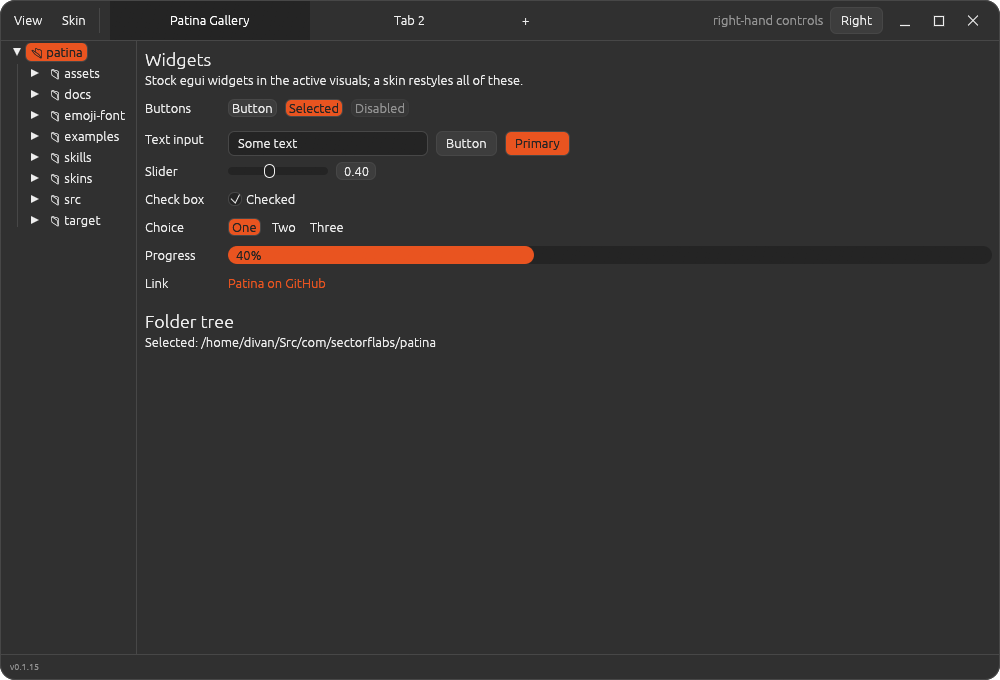
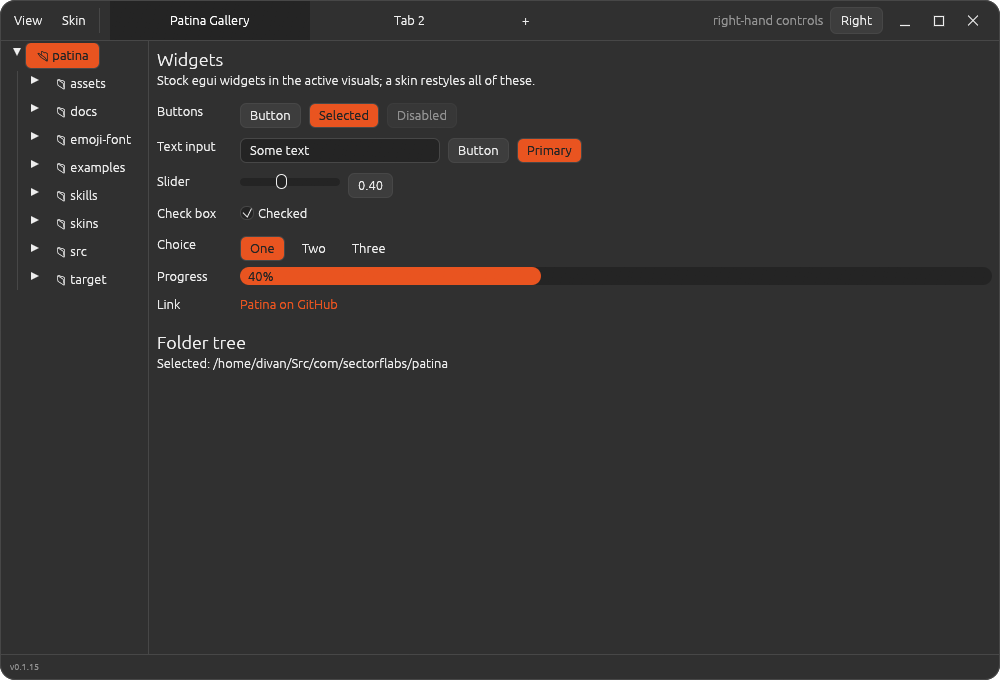
Every button is a title bar button's size by default: Skin::apply sets the padding (ADR-0035)
spacing.button_padding is [controls] button_padding, else 10 by 5, so plain
buttons, drop-downs, drag values and selectable labels are about 24 px high,
as dialog buttons and inputs are. [4, 1] is egui's old size. Screenshots
regenerated.

diff --git a/src/skin.rs b/src/skin.rs
@@ -120,6 +120,10 @@ pub struct Controls {
     pub input_padding: Option<[f32; 2]>,
     /// Least height of a text input in px; 24, a button's, when unset.
     pub input_height: Option<f32>,
+    /// Padding inside buttons and the controls drawn like them (drop-downs,
+    /// drag values, selectable labels), `[across, down]` in px; 10 by 5, the title
+    /// bar's, when unset. `[4, 1]` is egui's.
+    pub button_padding: Option<[f32; 2]>,
 }
 
 /// The app's own window frame: its title bar, edge and corners.
@@ -237,6 +241,7 @@ impl Skin {
     /// swap it out.
     pub fn apply(&self, ctx: &egui::Context) {
         crate::dialog::set_input_size(ctx, self.input_size());
+        let spacing = self.spacing();
         let Some(base) = self.base else {
             ctx.set_theme(ThemePreference::System);
             for slot in [EguiTheme::Dark, EguiTheme::Light] {
@@ -244,6 +249,7 @@ impl Skin {
                     slot,
                     egui::Style {
                         visuals: slot.default_visuals(),
+                        spacing: spacing.clone(),
                         ..Default::default()
                     },
                 );
@@ -261,9 +267,26 @@ impl Skin {
                 slot,
                 egui::Style {
                     visuals: visuals.clone(),
+                    spacing: spacing.clone(),
                     ..Default::default()
                 },
             );
+        }
+    }
+
+    /// egui's spacing with the skin's button padding: `[controls] button_padding`,
+    /// held to 0 to 24 px, else a title bar button's (ADR-0035).
+    pub fn spacing(&self) -> egui::Spacing {
+        let [x, y] = self.controls.button_padding.unwrap_or({
+            let d = crate::dialog::BUTTON_PADDING;
+            [d.x, d.y]
+        });
+        egui::Spacing {
+            button_padding: egui::vec2(
+                x.clamp(0.0, crate::dialog::InputSize::MAX_PADDING),
+                y.clamp(0.0, crate::dialog::InputSize::MAX_PADDING),
+            ),
+            ..Default::default()
         }
     }
 
@@ -738,6 +761,29 @@ mod tests {
             "{:?}",
             skin.warnings
         );
+    }
+
+    #[test]
+    fn buttons_are_a_title_bar_buttons_size_unless_the_skin_says_otherwise() {
+        let size = |skin: &Skin| {
+            let ctx = egui::Context::default();
+            skin.apply(&ctx);
+            ctx.style_of(ctx.theme()).spacing.button_padding
+        };
+        let plain = Skin::parse("format = 1\nname = \"Plain\"\nbase = \"dark\"").unwrap();
+        assert_eq!(size(&plain), crate::dialog::BUTTON_PADDING);
+        let own =
+            Skin::parse("format = 1\nname = \"Own\"\nbase = \"dark\"\n[controls]\nbutton_padding = [4, 1]")
+                .unwrap();
+        assert_eq!(size(&own), egui::vec2(4.0, 1.0));
+        let wild = Skin::parse(
+            "format = 1\nname = \"Wild\"\nbase = \"dark\"\n[controls]\nbutton_padding = [90, -3]",
+        )
+        .unwrap();
+        assert_eq!(size(&wild), egui::vec2(24.0, 0.0), "held to the limits");
+        // The default skin, which follows the desktop, too.
+        let system = Skin::parse("format = 1\nname = \"System\"").unwrap();
+        assert_eq!(size(&system), crate::dialog::BUTTON_PADDING);
     }
 
     #[test]

diff --git a/docs/adr/0035-buttons-are-a-title-bar-buttons-size-by-default.md b/docs/adr/0035-buttons-are-a-title-bar-buttons-size-by-default.md
@@ -1,0 +1,43 @@
+# 0035. Every button is a title bar button's size by default: `Skin::apply` sets the padding
+
+Date: 2026-11-13
+
+## Status
+
+Accepted. The user saw the gallery's new text input beside a row of dialog buttons, found those
+button sizes good, and asked for buttons to be upgraded too. It is the follow-up
+[ADR-0032](0032-dialog-buttons-are-the-title-bars-size.md) left open.
+
+## Context
+
+ADR-0032 gave a row of buttons the title bar's size (10 by 5 px of padding, 24 px high) when an
+app calls `dialog::buttons(ui)`, and left egui's 18 px buttons (4 by 1 px of padding) everywhere
+else, because putting it in `Skin::apply` "would change every widget in every app at once": the
+tabs and the markdown editor's cells size themselves from `interact_size`, and dense panels would
+reflow. Inputs have since followed buttons (ADR-0034), so a plain button beside one is now the
+odd one out, in the gallery and in every app with a toolbar of egui buttons next to a field.
+
+What an app's buttons are made of matters: egui's `Button`, `selectable_label`, `ComboBox` and
+`DragValue` take their padding from `style.spacing.button_padding` and a least height from
+`interact_size.y`. The tabs, the menus and the title bar set their own, and the sliders and check
+boxes use `interact_size` and `icon_width`, not the padding.
+
+## Decision
+
+- **`Skin::apply` sets `spacing.button_padding`** to `[controls] button_padding`, held to 0 to
+  24 px, else `dialog::BUTTON_PADDING` (10 by 5): the title bar's. `Skin::spacing()` gives it. The
+  skin without a base, which follows the desktop, gets it too.
+- **`interact_size` is left alone**, so check boxes, sliders and the rest keep their size; a
+  button's height is its text and its padding, about 24 px with the usual font. `dialog::buttons`
+  still gives a row the least height and the 8 px gap.
+- **A skin that wants egui's size back** writes `button_padding = [4, 1]`.
+
+## Consequences
+
+- Every plain egui button, drop-down, drag value and selectable label in a Patina app is about 6
+  px taller and 12 wider than before, with no change in the app. Toolbars of them, and dense
+  panels, take more room.
+- Widgets that draw their own size (the tabs, menus, the title bar's buttons, Files' toolbar
+  glyph buttons) don't change.
+- An app that wants its old buttons somewhere sets `ui.spacing_mut().button_padding` in a scope;
+  `dialog::buttons` is no longer needed for the padding, only for the gap and the least height.

diff --git a/CHANGELOG.md b/CHANGELOG.md
@@ -37,12 +37,23 @@ is added there in the same commit (ADR-0025).
 
 ### Changed
 
+- Every button is a title bar button's size by default (ADR-0035): `Skin::apply` sets egui's
+  `spacing.button_padding` to 10 by 5 px, or to the skin's `[controls] button_padding` (`[4, 1]` is
+  egui's old size), so plain buttons, drop-downs, drag values and selectable labels are about 24 px
+  high, as dialog buttons and inputs are, with no change in the app. `Skin::spacing()` is the
+  value. Tabs, menus and the title bar, which size themselves, don't change.
 - Markdown tables look and lay out like HTML's (ADR-0033): joined cells with borders, text that
   wraps, as wide as the content wants up to the text's width, and images in cells (`![alt](src)`,
   `<img>`, inside a link too) shown. `markdown::embeds::table` takes the document's folder before
   the id; the `Editor` does this itself.
 
 ### Upgrading
+
+- **Buttons are bigger by default: look at toolbars and dense panels.** Plain egui buttons are
+  about 24 px high now, not 18, and 12 px wider; a row of them takes more room. To keep a place as
+  it was, set `ui.spacing_mut().button_padding = egui::vec2(4.0, 1.0)` in a scope there, or have
+  the skin say `[controls] button_padding = [4, 1]`. `dialog::buttons` is still how a row gets
+  the 8 px gap and the least height.
 
 - **Apps with dialogs, or any row of buttons outside the title bar: call `patina::dialog::buttons(ui)`
   first inside the row's layout, and make the button Enter presses `patina::dialog::primary`.**

diff --git a/docs/adr/README.md b/docs/adr/README.md
@@ -74,6 +74,7 @@ mechanics of adding one. Patina apps should keep ADRs the same way
 | [0030](0030-the-frame-asks-the-compositor-for-the-window-shadow.md) | The frame asks the compositor for the window's shadow: `frame::shadow::request` | Accepted |
 | [0031](0031-colour-emoji-from-teleprinter.md) | Colour emoji are Patina's: the Teleprinter code, bundled and shared | Accepted |
 | [0032](0032-dialog-buttons-are-the-title-bar-s-size.md) | Dialog buttons are the title bar's size: `patina::dialog` | Accepted |
+| [0035](0035-buttons-are-a-title-bar-buttons-size-by-default.md) | Every button is a title bar button's size by default: `Skin::apply` sets the padding | Accepted |
 | [0034](0034-text-inputs-are-a-buttons-size.md) | Text inputs are a button's size: `dialog::text_edit` and `[controls] input_padding` | Accepted |
 | [0033](0033-tables-are-laid-out-like-html-and-hold-images.md) | Tables are laid out like HTML's, and hold images | Accepted |
 

diff --git a/docs/skinning.md b/docs/skinning.md
@@ -98,6 +98,7 @@ example.
 | `border` | Control outlines (defaults to `colors.border`) |
 | `input_padding` | Padding inside text inputs, `[across, down]` in px, 0 to 24 (default `[10, 5]`, a button's) |
 | `input_height` | Least height of a text input in px, 16 to 64 (default 24, a button's) |
+| `button_padding` | Padding inside buttons, drop-downs, drag values and selectable labels, `[across, down]` in px, 0 to 24 (default `[10, 5]`, the title bar's; `[4, 1]` is egui's) |
 
 egui draws buttons with one fill and slider/checkbox tracks with another. Tracks at rest use
 `colors.surface`, so they stay visible when `controls.background` matches `colors.background`.
